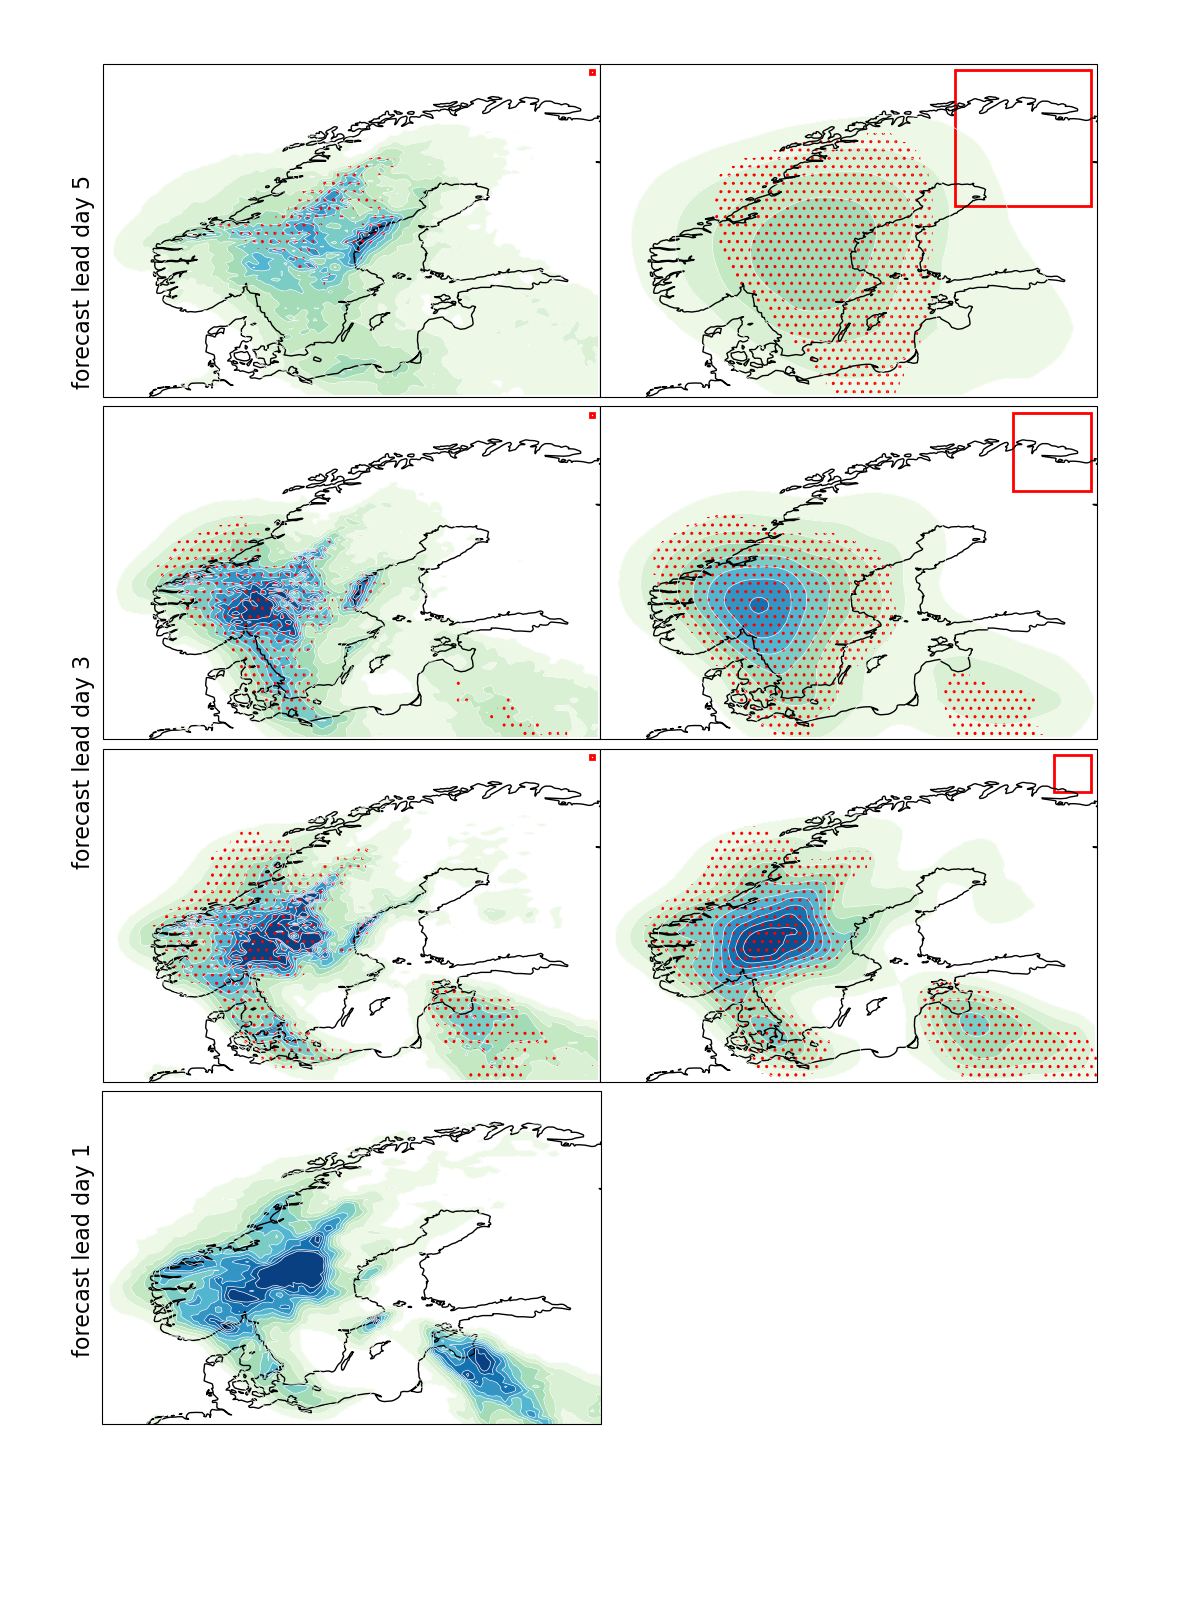
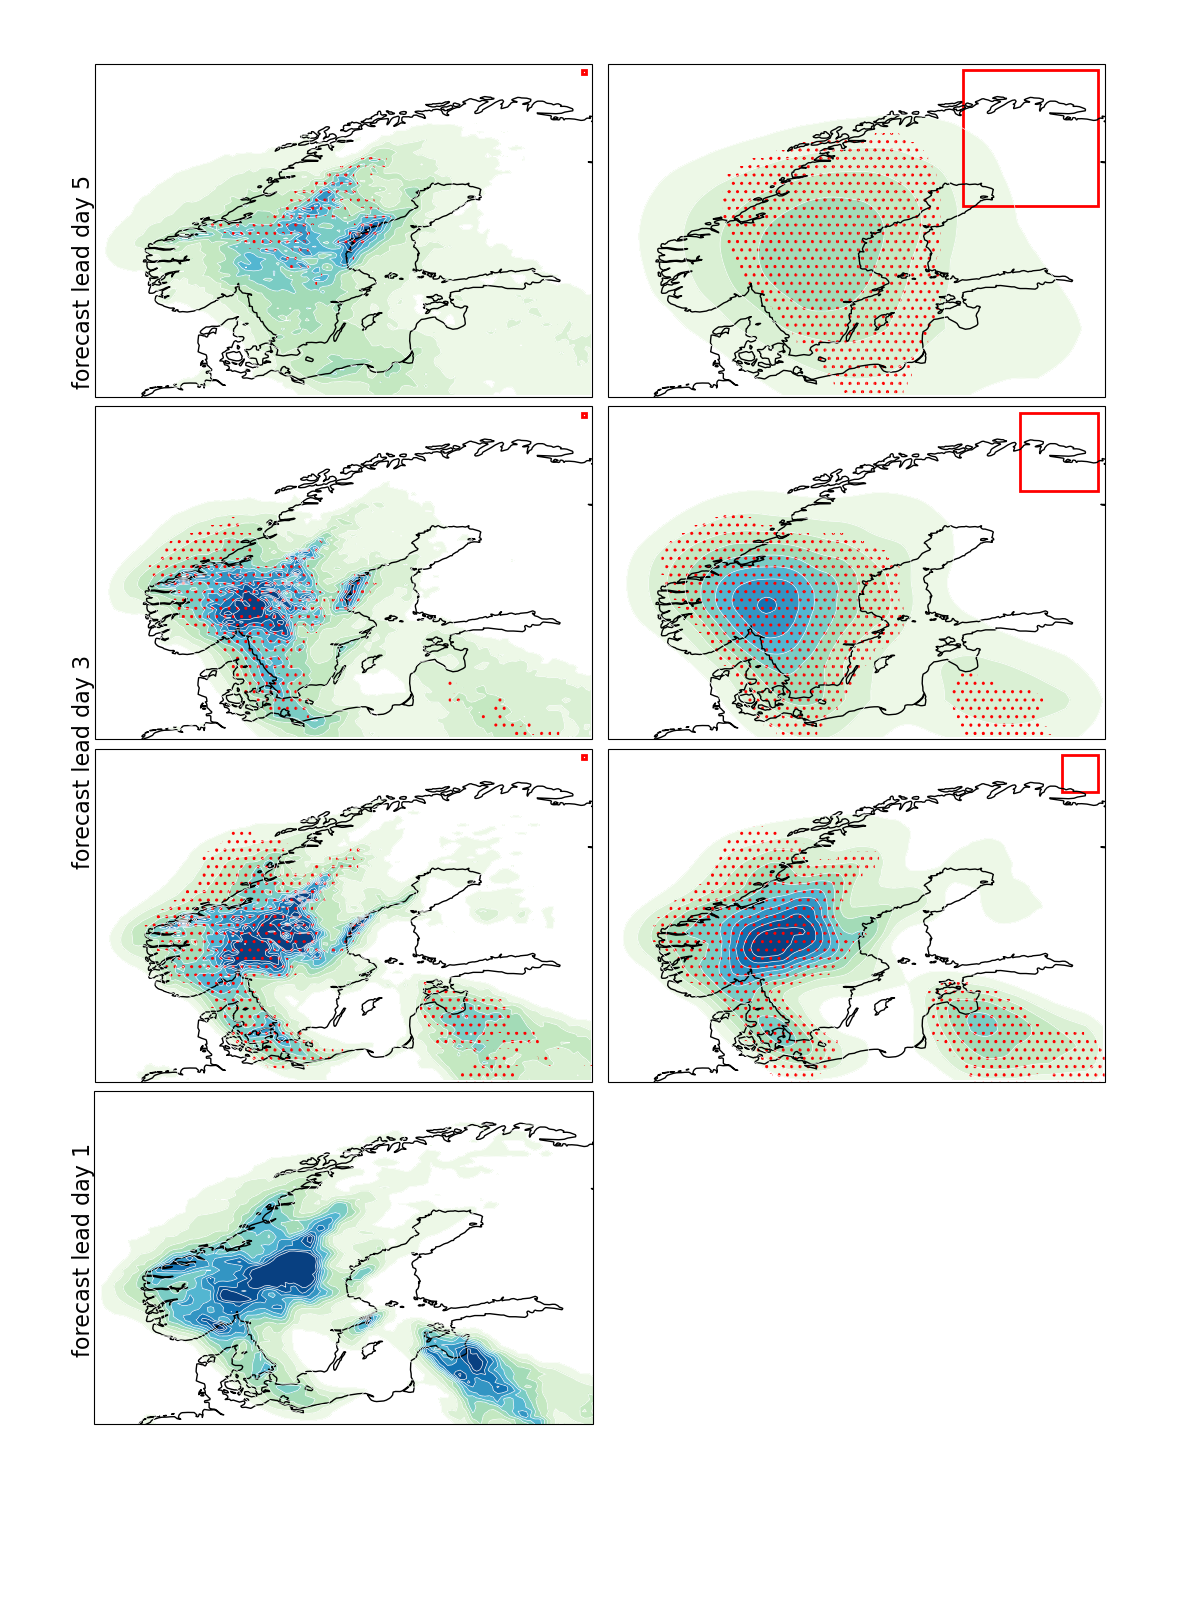
update

diff --git a/code/plot/test.py b/code/plot/test.py
@@ -87,9 +87,7 @@ figsize  = np.array([12,16])
 fig,ax   = plt.subplots(nrows=4,ncols=2,figsize=(figsize[0],figsize[1]),subplot_kw={'projection': ccrs.PlateCarree(central_longitude=0.0)})
 ax       = ax.ravel()
 
-#fig.subplots_adjust(right=0.95, left=0.05,top=0.975,bottom=0.1,hspace=0.03,wspace=-0.05)
-fig.subplots_adjust(right=0.925, left=0.075,top=0.96,hspace=0.03,wspace=-0.05)
-
+fig.subplots_adjust(right=0.925, left=0.075,top=0.96,hspace=0.03,wspace=0.01)
 
 title1 = r'a) 1 gridpoint$^2$ precision'
 title2 = r'b) 33 gridpoint$^2$ precision'
